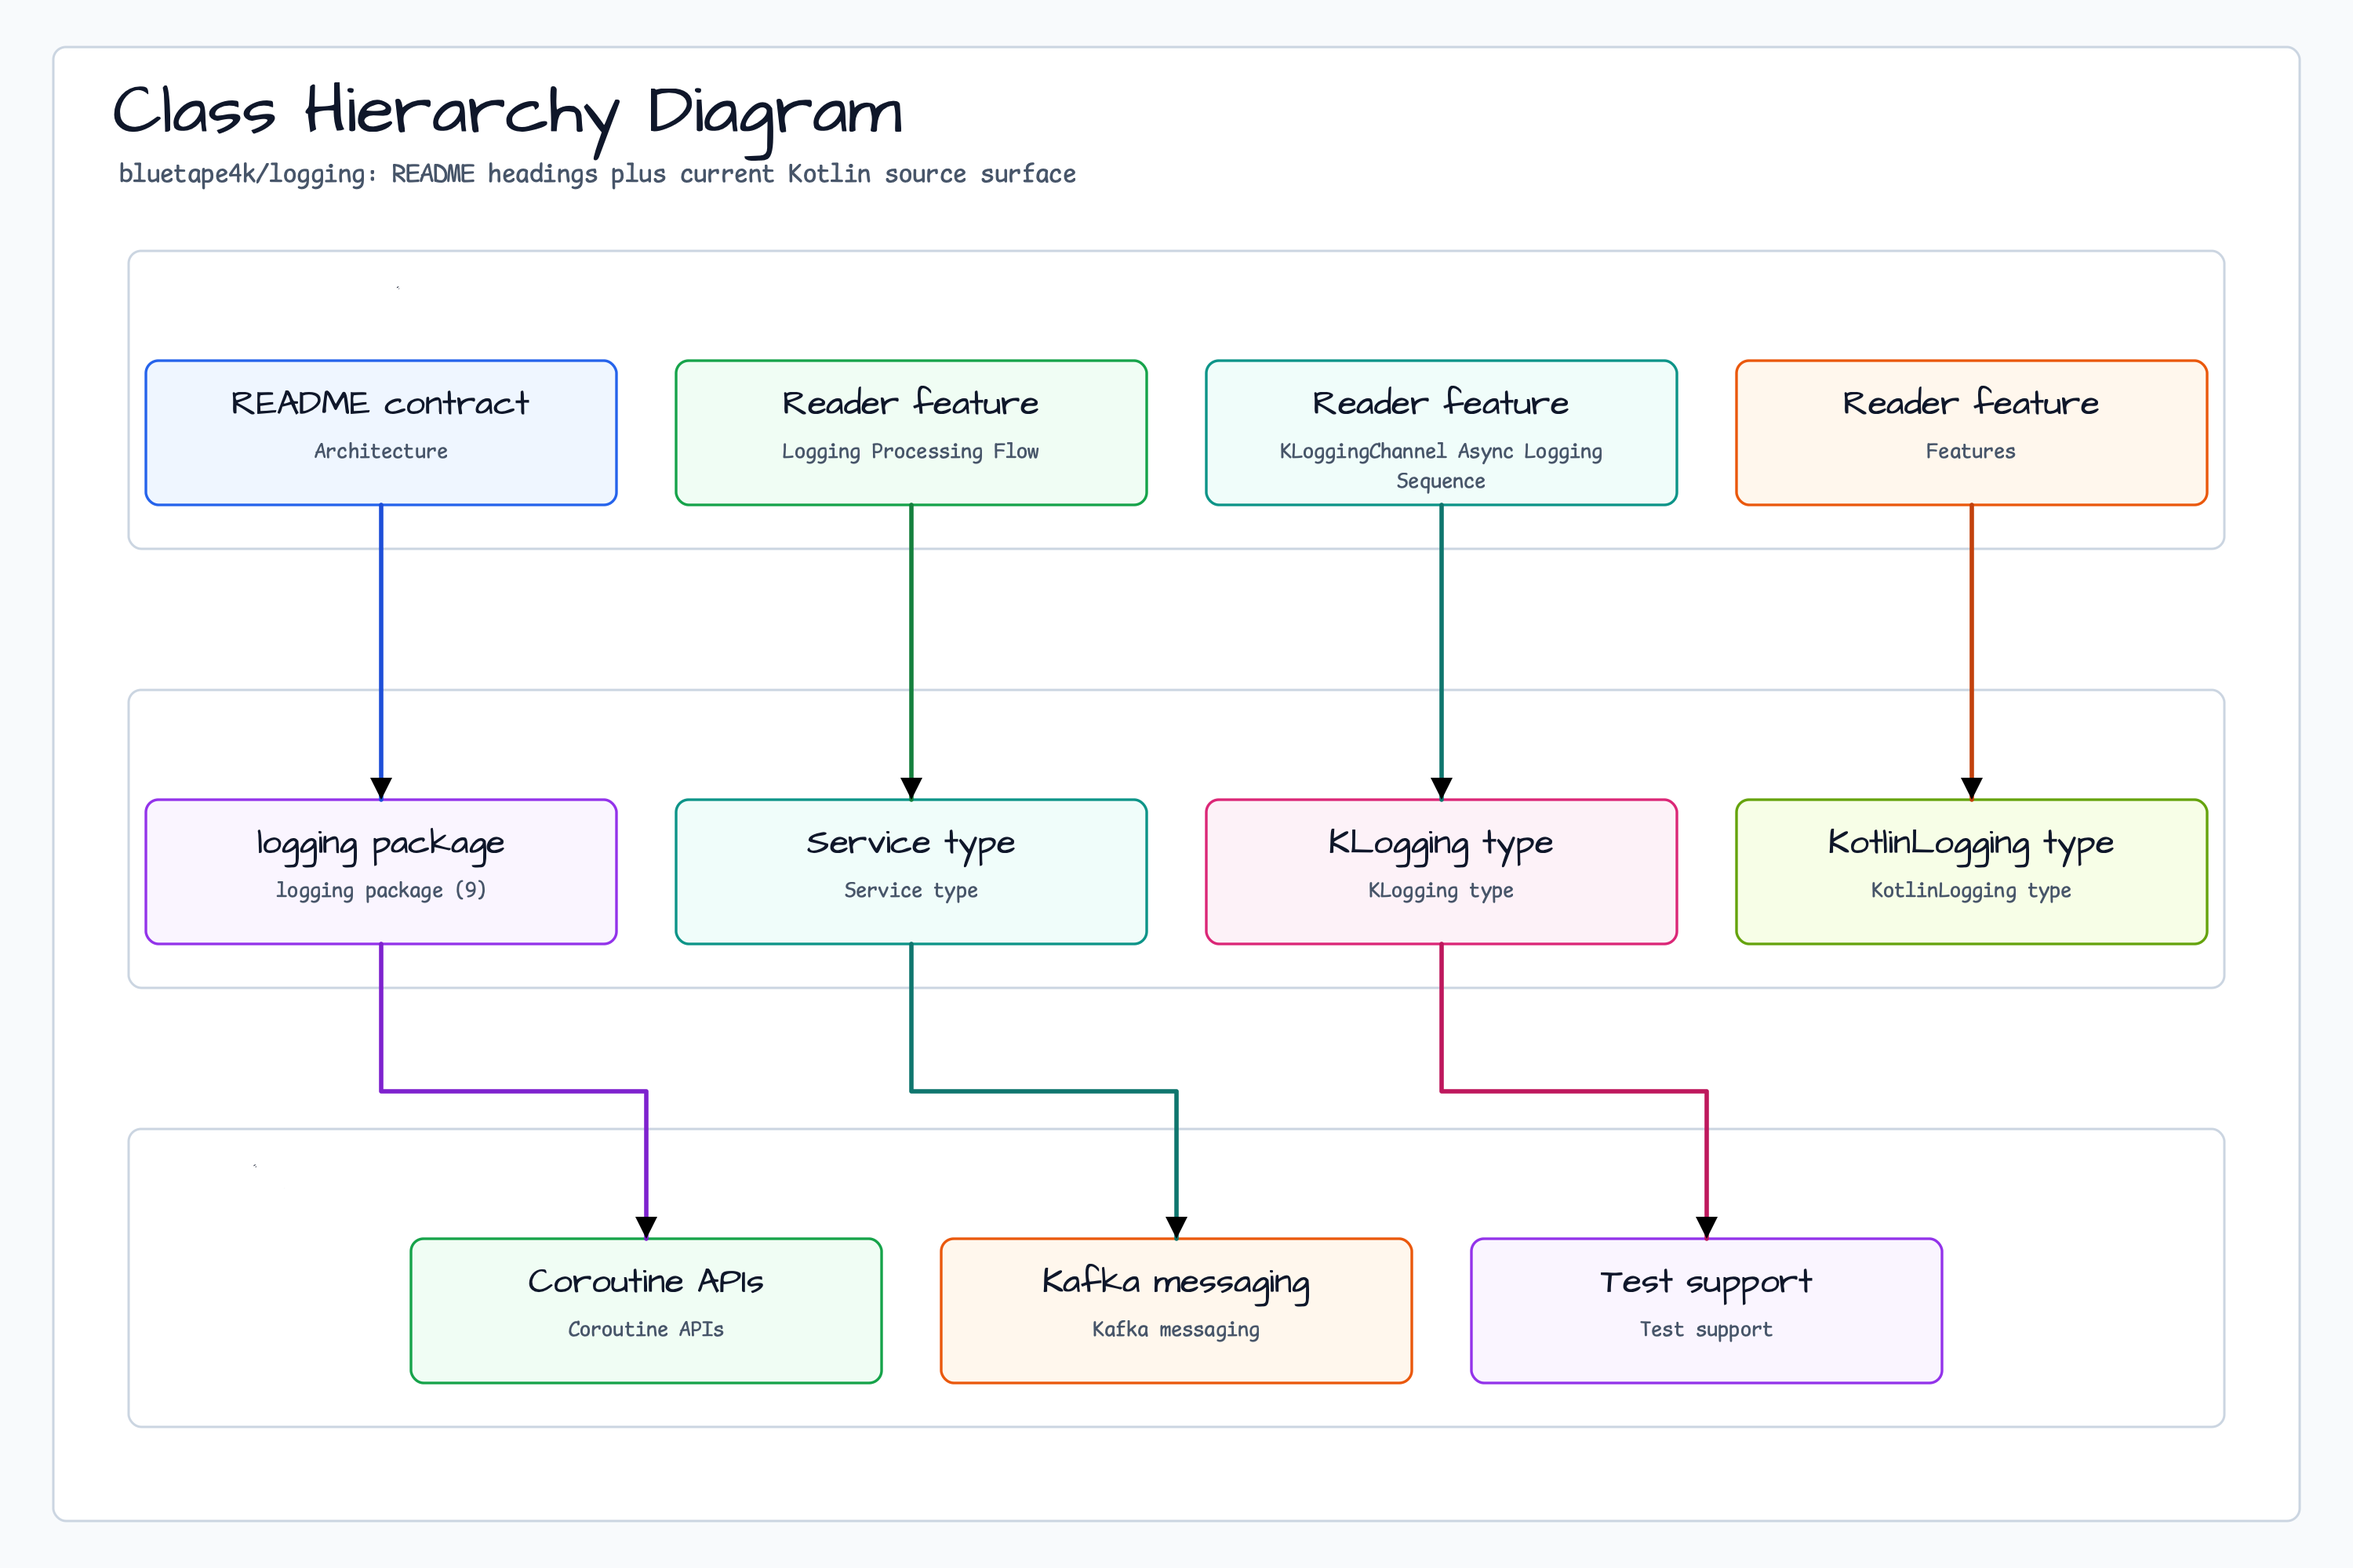
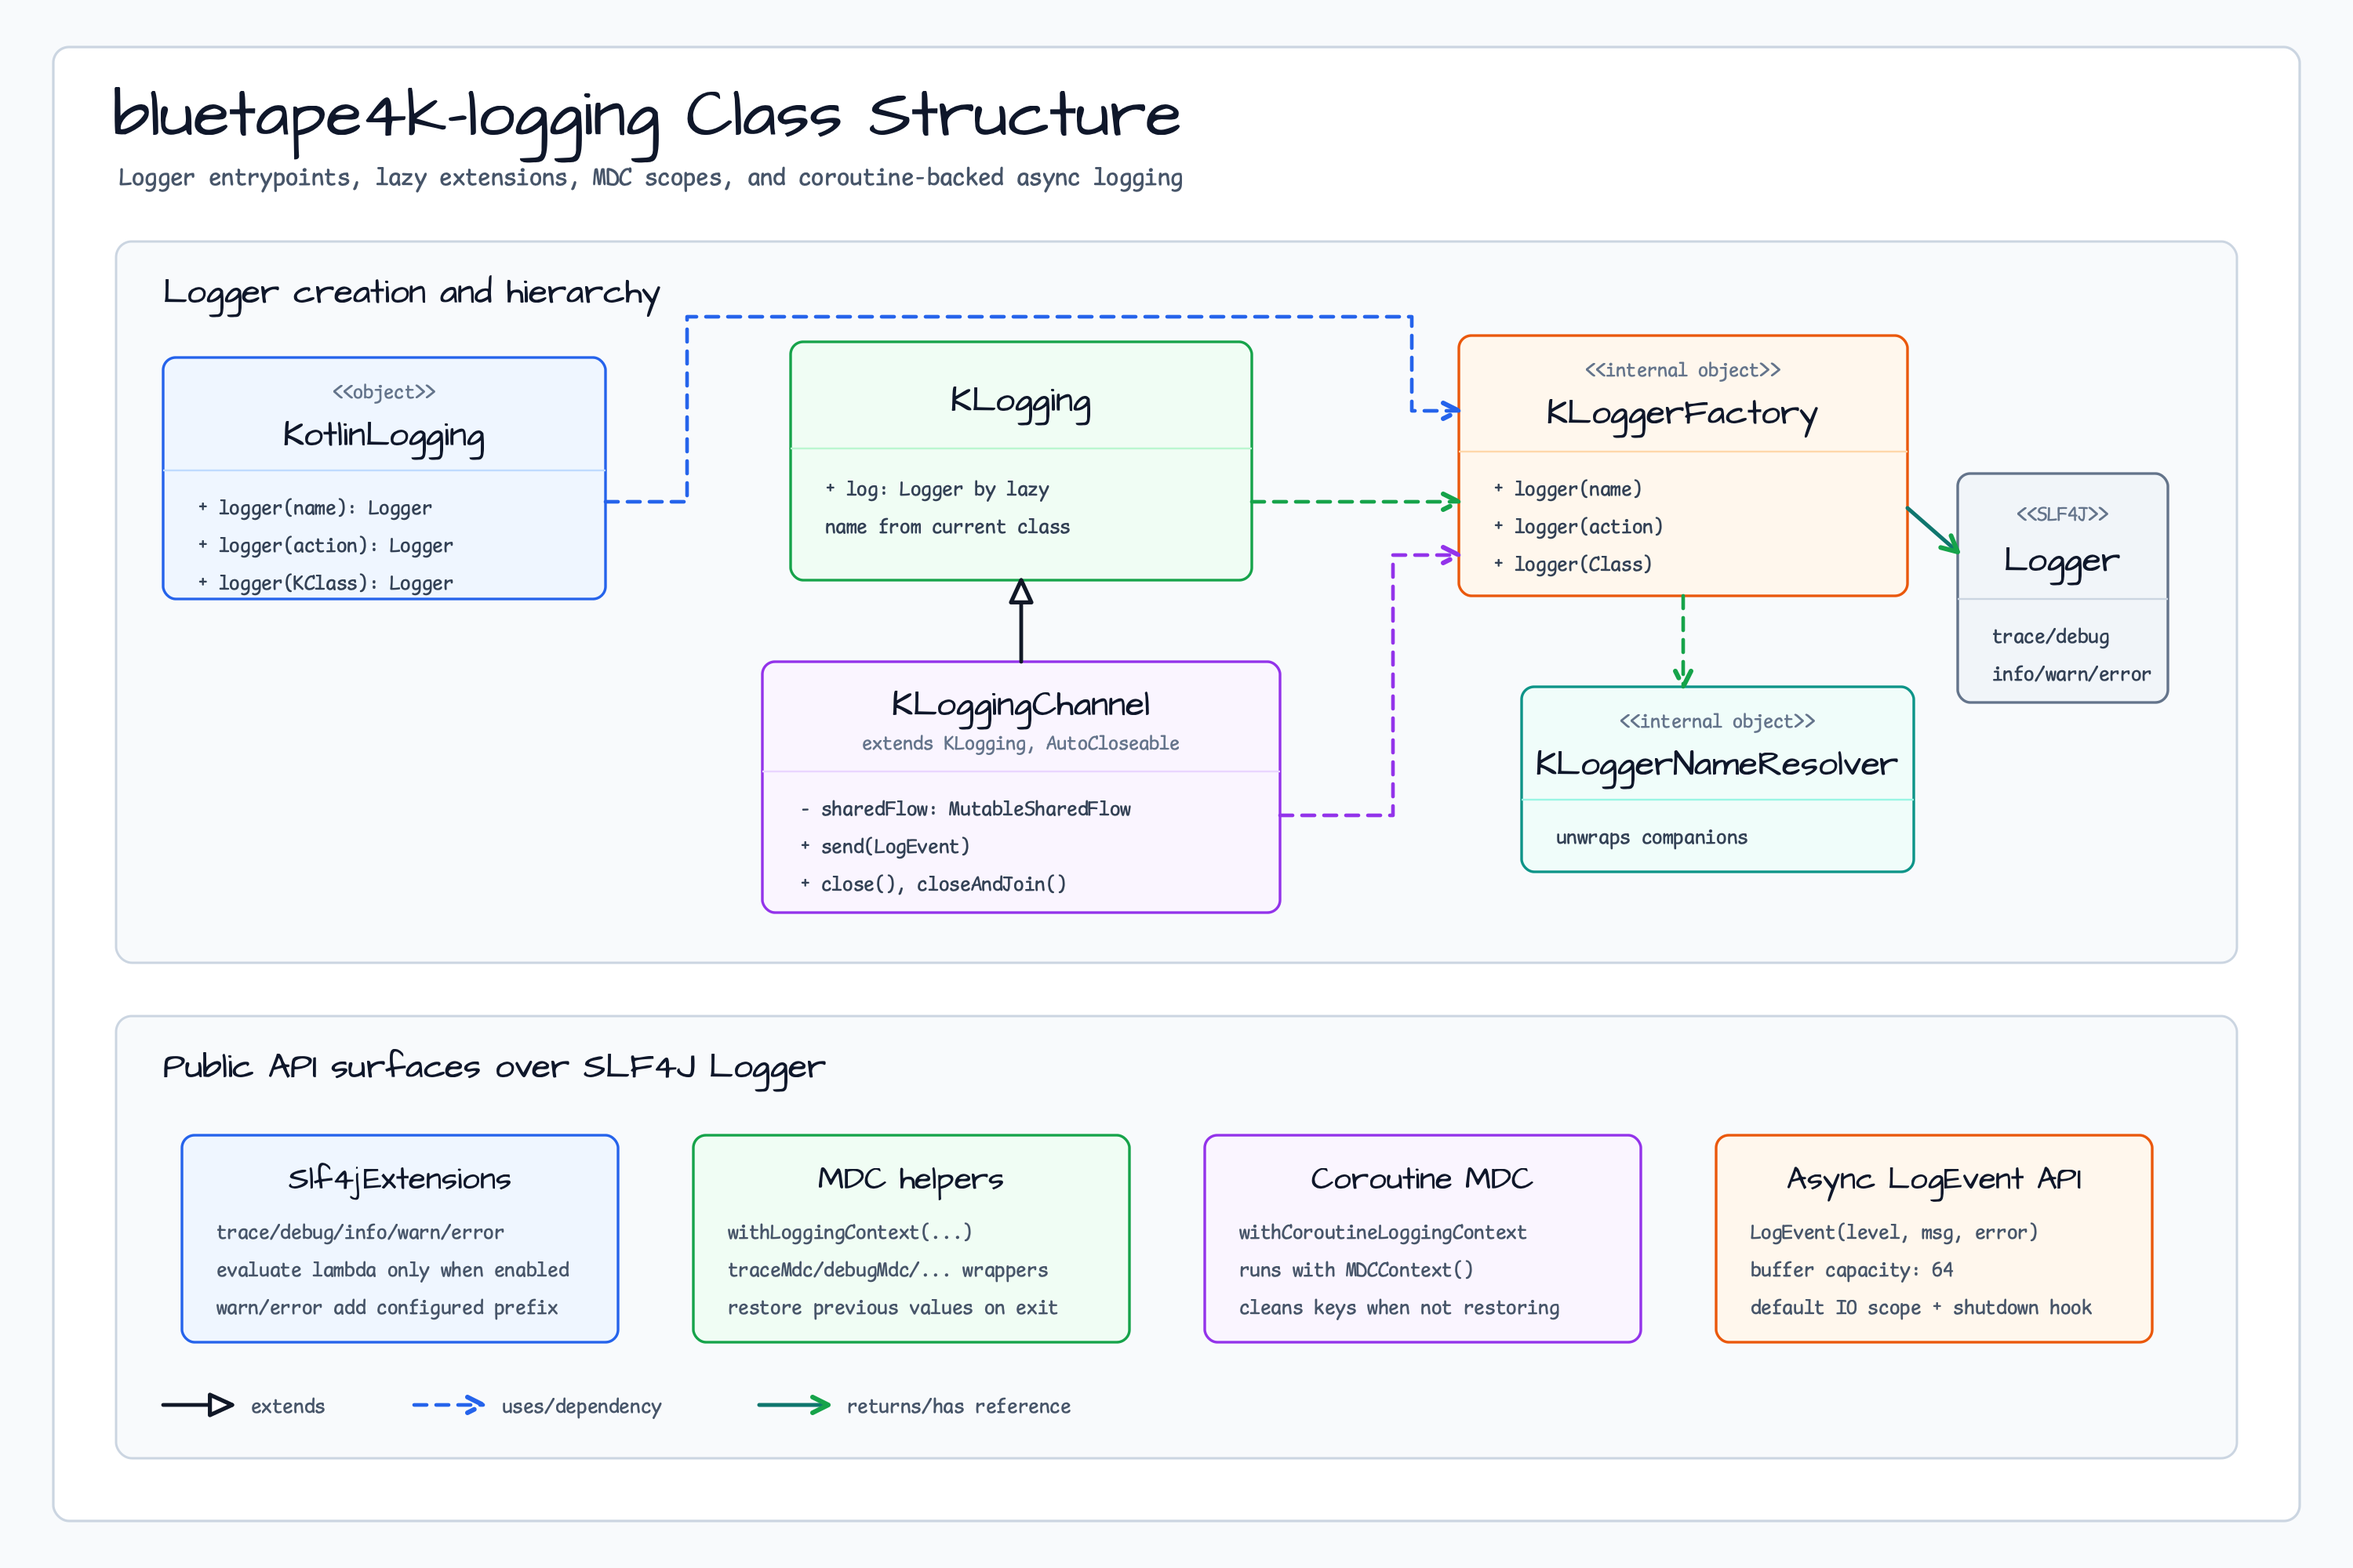
docs: clarify logging class structure diagram
Align the logging class structure diagram and README labels with the KLogging, KotlinLogging, MDC, and coroutine channel surfaces.

Constraint: README-facing labels stay English across localized docs while Korean prose remains Korean.

Rejected: keep duplicate generic alt text | it obscures that the image is the logging class structure view.

Confidence: high

Scope-risk: narrow

Directive: validate transformed legend geometry with comma-aware translate parsing before accepting margin checks.

Tested: README/source review, SVG XML parse, forbidden-pattern scan, crossing check, margin audit, PNG visual inspection, README image link check, git diff --check.

Not-tested: Gradle build; documentation-only update.

diff --git a/bluetape4k/logging/README.md b/bluetape4k/logging/README.md
@@ -8,7 +8,7 @@ A library that makes SLF4J logging in Kotlin easier and more efficient.
 
 ### Class Hierarchy Diagram
 
-![Class Hierarchy Diagram diagram](../../docs/images/readme-diagrams/bluetape4k-logging-diagram-01.png)
+![Logging Class Structure diagram](../../docs/images/readme-diagrams/bluetape4k-logging-diagram-01.png)
 
 ---
 
